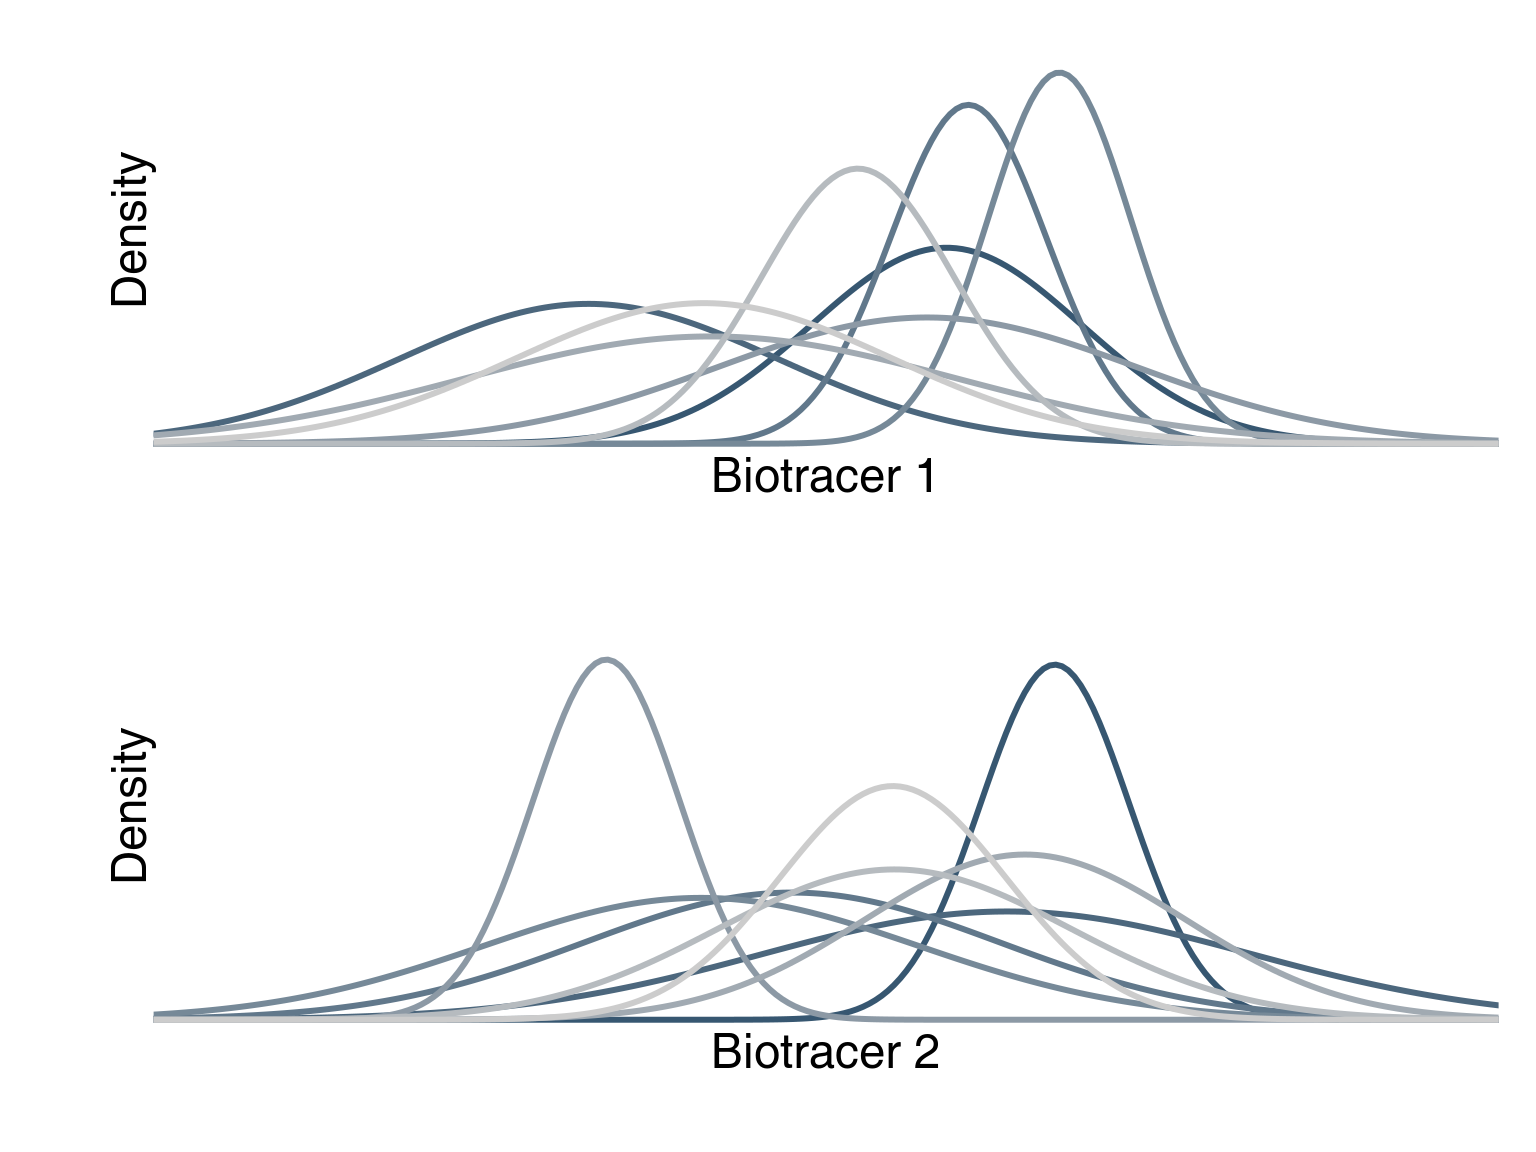
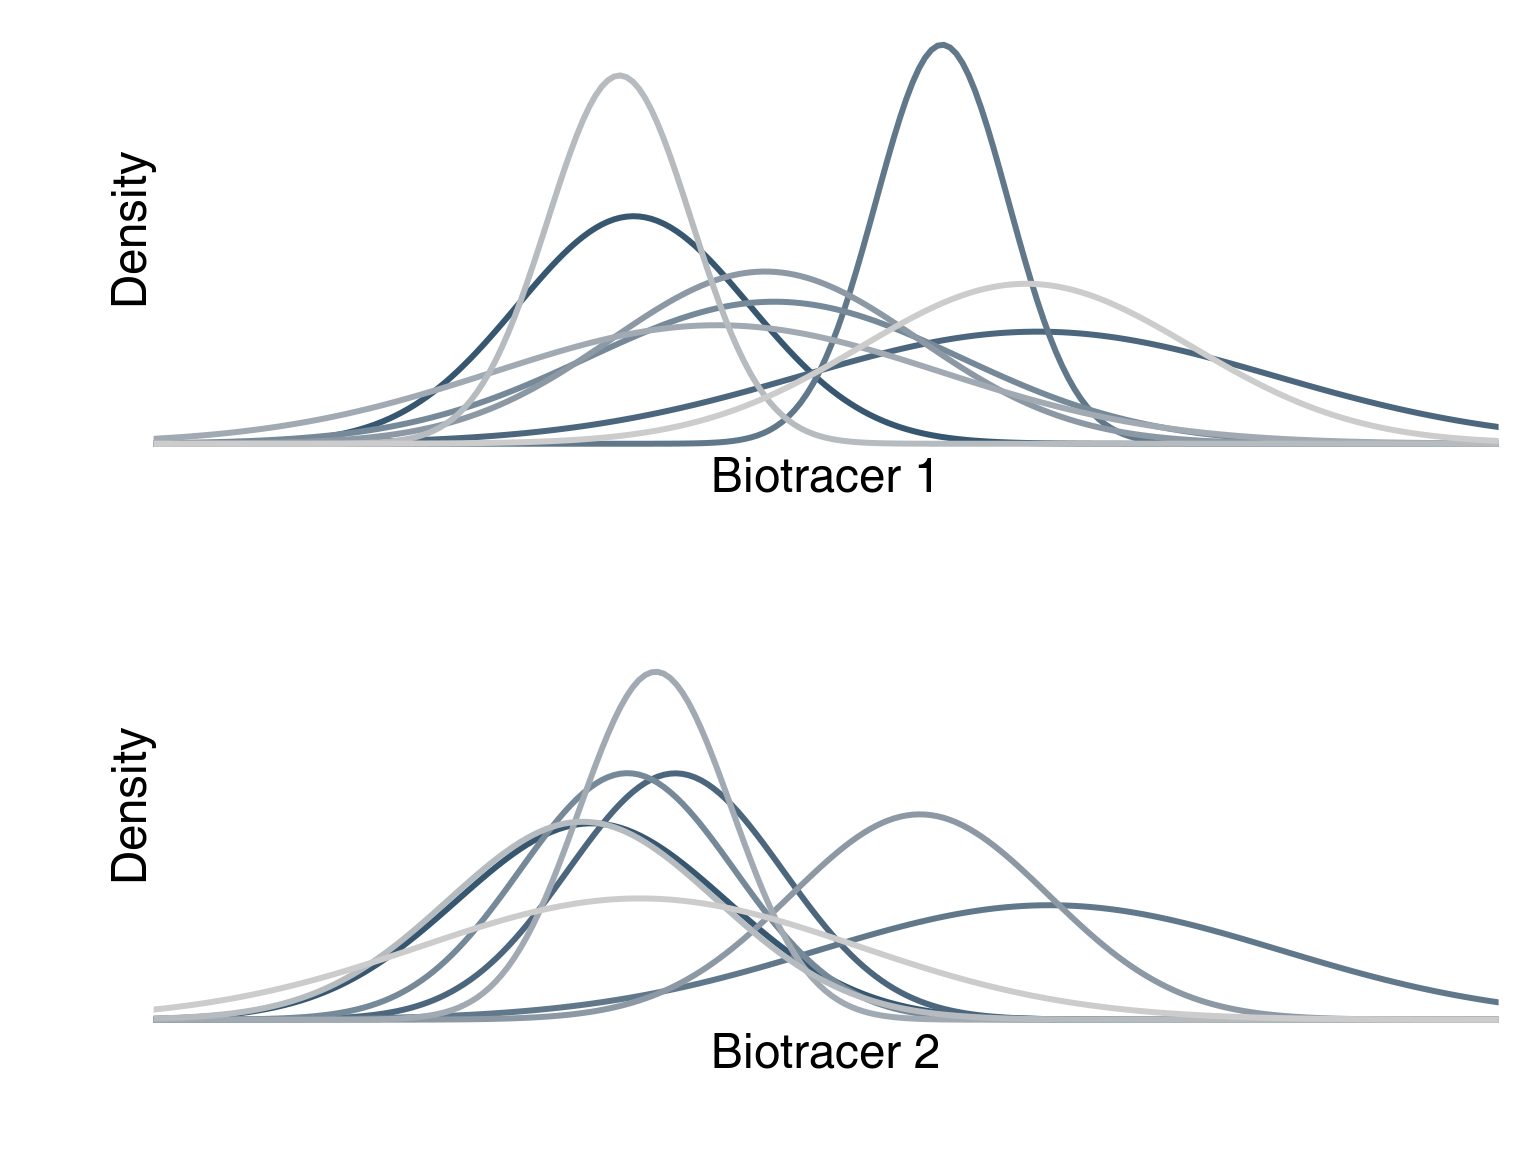
theory done

diff --git a/index.html b/index.html
@@ -395,7 +395,6 @@ class: inverse, center, middle
 ---
 # Results - dimensionality
 
-&lt;br&gt;
 
 #### `$$\text{Biotracers} \sim \mathcal{N}(\mu, \Sigma)$$`
 
@@ -407,26 +406,83 @@ class: inverse, center, middle
 
 - diagonal (variances) fixed
 
-- off-diagonal terms vary
+- off-diagonal terms vary:
 
-See [Multivariate normal distribution](https://en.wikipedia.org/wiki/Multivariate_normal_distribution)
+`\begin{pmatrix}
+1 &amp; \rho \\
+\rho &amp; 1
+\end{pmatrix}`
+
+
 
 
 ---
 # Results - dimensionality (dim = 2)
 
-&lt;br&gt;
-
-
-.center[![:scale 70%](img/fig_theo2.png)]
+.center[![:scale 77%](img/FigCor1.png)]
 
 ---
-# Results - dimensionality
+# Results - dimensionality (dim = 2)
 
-&lt;br&gt;
+.center[![:scale 77%](img/FigCor2.png)]
 
-.center[![:scale 70%](img/fig_theo3.png)]
+---
+# Results - dimensionality (dim = 2)
 
+.center[![:scale 77%](img/FigCor3.png)]
+
+---
+# Results - dimensionality (dim = 2)
+
+.center[![:scale 77%](img/FigCor4.png)]
+
+---
+# Results - dimensionality (dim = 2)
+
+.center[![:scale 77%](img/FigCor5.png)]
+
+---
+# Results - dimensionality (dim = 2)
+
+.center[![:scale 77%](img/FigCor6.png)]
+
+---
+# Results - dimensionality (dim = 2)
+
+.center[![:scale 77%](img/FigCor7.png)]
+
+---
+# Results - dimensionality (dim = 2)
+
+.center[![:scale 77%](img/FigCor8.png)]
+
+---
+# Results - dimensionality (dim = 2)
+
+.center[![:scale 77%](img/FigCor9.png)]
+
+---
+# Results - dimensionality (dim = 2)
+
+.center[![:scale 77%](img/FigCor10.png)]
+
+---
+# Results - dimensionality (dim = 2)
+
+.center[![:scale 77%](img/FigCor11.png)]
+
+
+
+
+---
+# Results - dimensionality (up to 10)
+
+.center[![:scale 70%](img/fig_theo3a.png)]
+
+---
+# Results - dimensionality (up to 10)
+
+.center[![:scale 70%](img/fig_theo3b.png)]
 
 
 ---
@@ -527,11 +583,13 @@ class: inverse, center, middle
 
 --
 
-###4-  Do not waste data
+### 4- Do not waste data
 
 
 ---
 # Thanks to
+
+--
 
 ### - my coauthors and [the McCannLab](https://www.mccannlab.org/)
 
